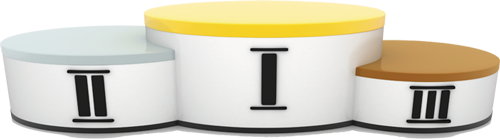
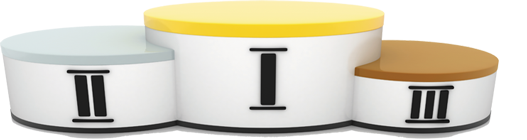
top 3

diff --git a/Templates/main.css b/Templates/main.css
@@ -154,7 +154,7 @@ span.bottom-text{
 	height:24px;
 	background-image:url("img/tip_btn.png");
 	background-size:cover;
-    background-repeat:no-repeat;
+	background-repeat:no-repeat;
 	float:right;
 }
 
@@ -344,14 +344,33 @@ a.group-by-button{
 }
 
 .top3-col{
-	background-color:white;
 	width:180px;
 	height:200px;
+	background-image: url("img/red_ribbon.png");
+	background-repeat:no-repeat;
 	float:left;	
 }
 
+.top3-photo-frame{
+	width:110px;
+	height:141px;
+	margin:auto;
+	margin-top:36px;
+	border-bottom-color:black;
+	border-style:solid;
+	border-width:2px;
+	background-color:gray;
+}
+
+.top3-photo-frame img{
+	display:block;
+	max-height:100%;
+	max-width:100%;
+	margin:auto;
+}
+
 #top-3-1st{
-	margin-top:0;
+	margin-top:10px;
 }
 
 #top-3-2nd{
@@ -359,7 +378,7 @@ a.group-by-button{
 }
 
 #top-3-3rd{
-	margin-top:40px;
+	margin-top:60px;
 }
 
 .list-view{

diff --git a/Templates/index.html b/Templates/index.html
@@ -82,9 +82,9 @@
 							</div>
 							<div class="top3-placeholder">
 								<div class="top3-row">
-									<div class="top3-col" id="top-3-2nd"></div>
-									<div class="top3-col" id="top-3-1st"></div>
-									<div class="top3-col" id="top-3-3rd"></div>
+									<div class="top3-col" id="top-3-2nd"><div class="top3-photo-frame"><img src=""></img></div></div>
+									<div class="top3-col" id="top-3-1st"><div class="top3-photo-frame"><img src=""></img></div></div>
+									<div class="top3-col" id="top-3-3rd"><div class="top3-photo-frame"><img src=""></img></div></div>
 								</div>
 							</div>
 							<div class="list-view">
